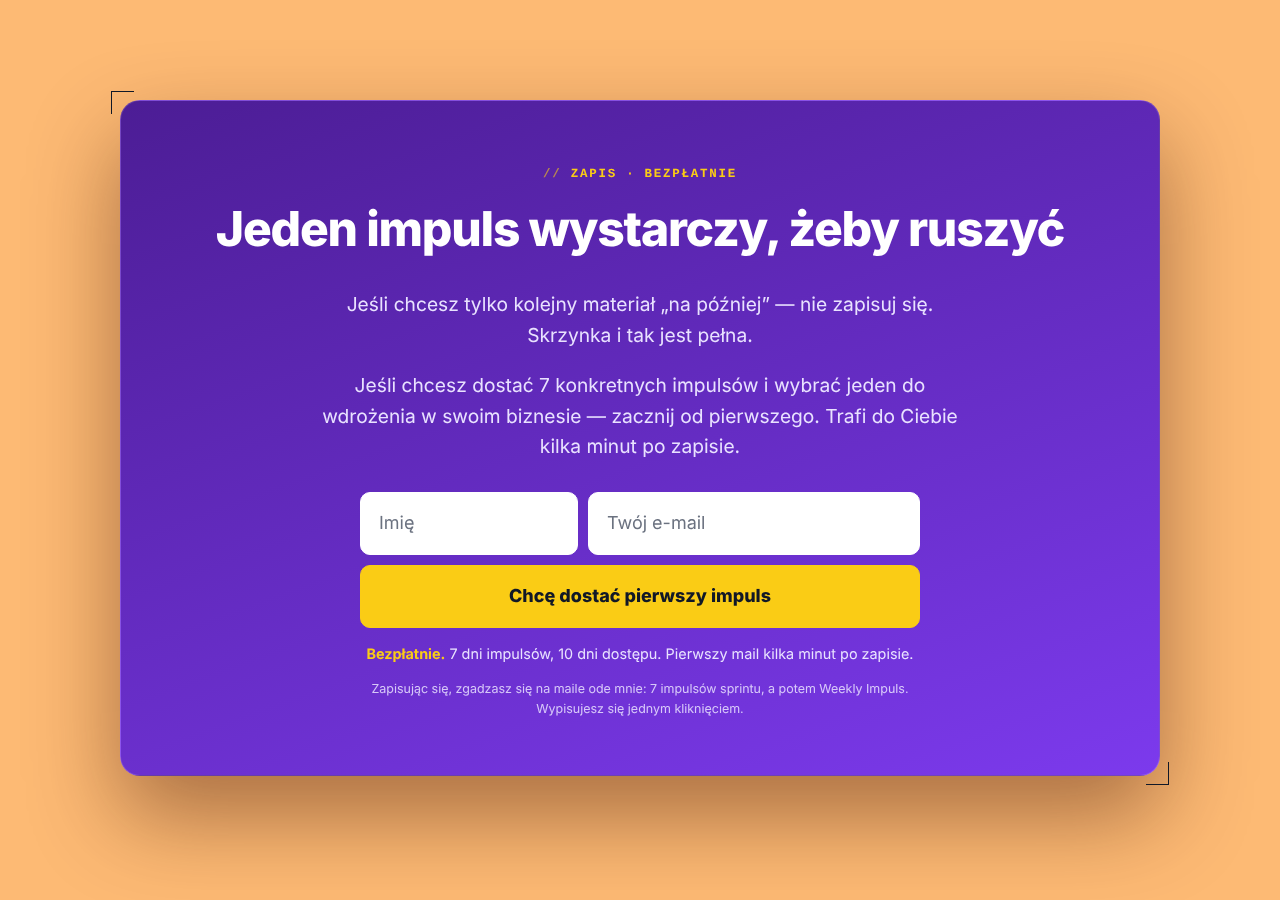
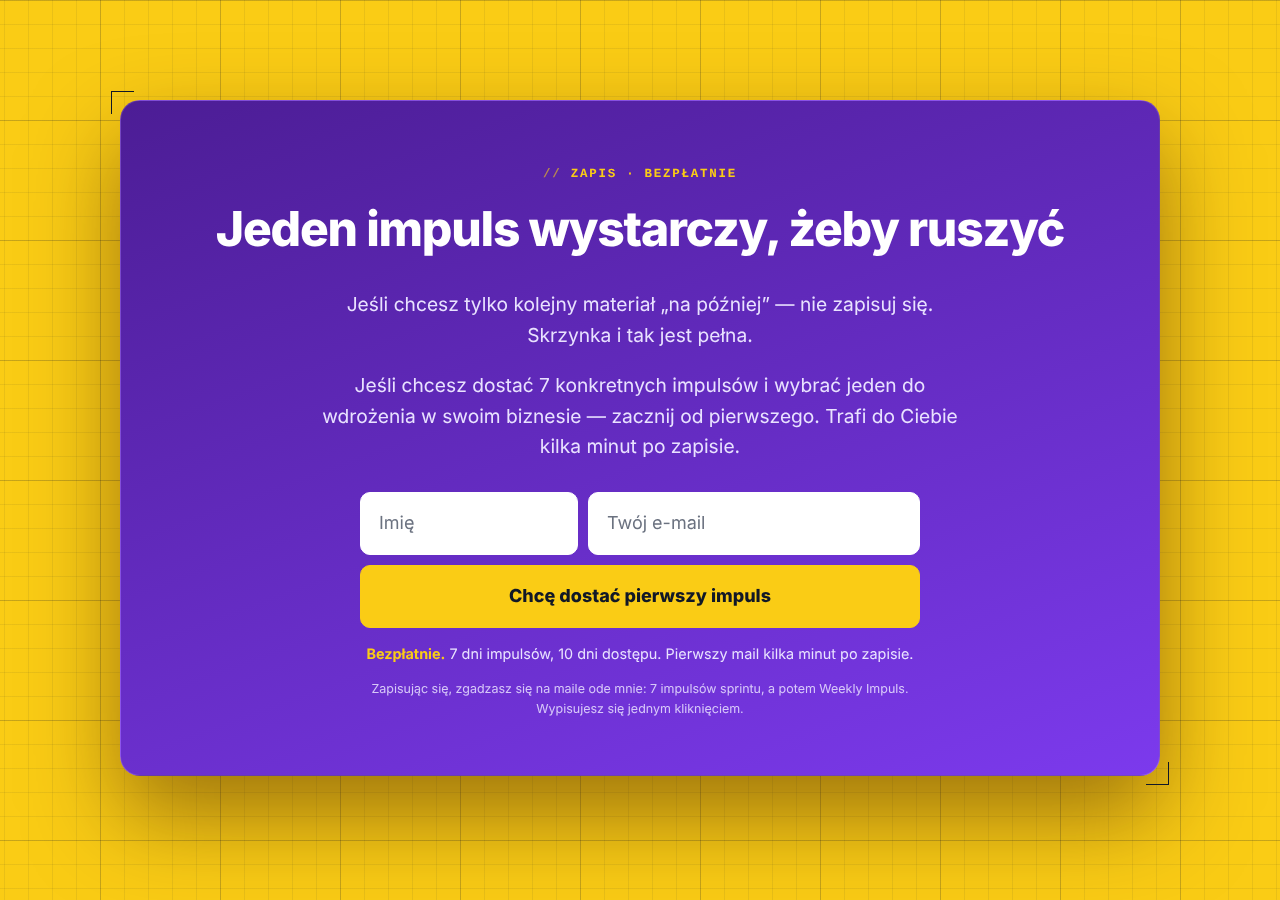
Final CTA section: accent yellow background with blueprint grid
Claude-Session: https://claude.ai/code/session_01Y4Tb515m5JokKDVRkZMiQM

diff --git a/site/styles.css b/site/styles.css
@@ -326,10 +326,20 @@ section { padding: 84px 0; position: relative; }
 .cta-box .lead, .cta-box .micro { color: #e9e2ff; }
 .cta-box h2 { font-size: clamp(1.9rem, 4.2vw, 3rem); }
 .cta-box.marks::before, .cta-box.marks::after { border-color: var(--accent); }
-/* finał: jasnopomarańczowe tło, kontener wyjeżdża od dołu i rośnie przy przewijaniu */
-.final.pop { background: #fdba74; min-height: 100vh; min-height: 100svh; display: grid; align-items: center; padding: 72px 0 96px; overflow: hidden; }
+/* finał: tło w kolorze CTA z siatką blueprintu, kontener wyjeżdża od dołu i rośnie przy przewijaniu */
+.final.pop {
+  background-color: var(--accent);
+  background-image:
+    linear-gradient(rgba(17, 24, 39, 0.16) 1px, transparent 1px),
+    linear-gradient(90deg, rgba(17, 24, 39, 0.16) 1px, transparent 1px),
+    linear-gradient(rgba(17, 24, 39, 0.07) 1px, transparent 1px),
+    linear-gradient(90deg, rgba(17, 24, 39, 0.07) 1px, transparent 1px);
+  background-size: 120px 120px, 120px 120px, 24px 24px, 24px 24px;
+  background-position: center top;
+}
+.final.pop { min-height: 100vh; min-height: 100svh; display: grid; align-items: center; padding: 72px 0 96px; overflow: hidden; }
 .final.pop .wrap { width: 100%; }
-.final.pop .cta-box { box-shadow: 0 40px 90px rgba(67, 20, 7, 0.45); transform-origin: center bottom; will-change: transform; }
+.final.pop .cta-box { box-shadow: 0 40px 90px rgba(66, 32, 6, 0.5); transform-origin: center bottom; will-change: transform; }
 .final.pop .cta-box.marks::before, .final.pop .cta-box.marks::after { border-color: var(--secondary); }
 .final .signup { margin: 30px auto 0; justify-content: center; }
 .final .micro, .final .lead { margin-left: auto; margin-right: auto; }

diff --git a/CLAUDE.md b/CLAUDE.md
@@ -30,7 +30,7 @@ Ton: praktyk, nie guru. Konkretnie, osobiście, z lekką autoironią. Tam, gdzie
 
 Motyw „Social Bold (Growth)” (wybór Marka, 2026-11-21): kolor główny `#7C3AED`, akcent i podświetlenie słów `#FACC15`, kolor dodatkowy `#111827`, tekst `#FFFFFF`, tło `#1E1B4B`. Tokeny są na górze `site/styles.css`.
 
-Gdzieniegdzie klimat blueprintu, zawsze fioletowy: siatka kreślarska (`.bp`), znaczniki narożne (`.marks`), przerywane linie, etykiety pismem maszynowym („Fig. 01”). Oszczędnie — nie na każdej sekcji. Logotypy spółek są ciemne, więc stoją na białej karcie, pod każdym ocena Google. Logotypy mediów: białe, jednokolorowe PNG w `site/img/media/` (wycięte z plików foundersai.pl), pokazywane małe. Przy CTA zawsze informacja, że sprint jest bezpłatny.
+Gdzieniegdzie klimat blueprintu, zawsze fioletowy: siatka kreślarska (`.bp`), znaczniki narożne (`.marks`), przerywane linie, etykiety pismem maszynowym („Fig. 01”). Oszczędnie — nie na każdej sekcji. Logotypy spółek są ciemne, więc stoją na białej karcie, pod każdym ocena Google. Logotypy mediów: białe, jednokolorowe PNG w `site/img/media/` (wycięte z plików foundersai.pl), pokazywane małe. Przy CTA zawsze informacja, że sprint jest bezpłatny. Finał landingu: sekcja w kolorze akcentu z ciemną siatką blueprintu, fioletowy kontener zapisu „wyskakuje” przy przewijaniu; landing nie ma stopki.
 
 ## Formularz
 

diff --git a/content/01-landing-page.md b/content/01-landing-page.md
@@ -219,4 +219,4 @@ Na tym etapie głównym celem jest pokazanie mojego sposobu myślenia, zbudowani
 
 ---
 
-*[Landing nie ma stopki — strona kończy się kontenerem zapisu na jasnopomarańczowym tle. Link „O mnie” jest w nagłówku.]*
+*[Landing nie ma stopki — strona kończy się kontenerem zapisu na żółtym tle (kolor CTA) z siatką blueprintu. Link „O mnie” jest w nagłówku.]*
